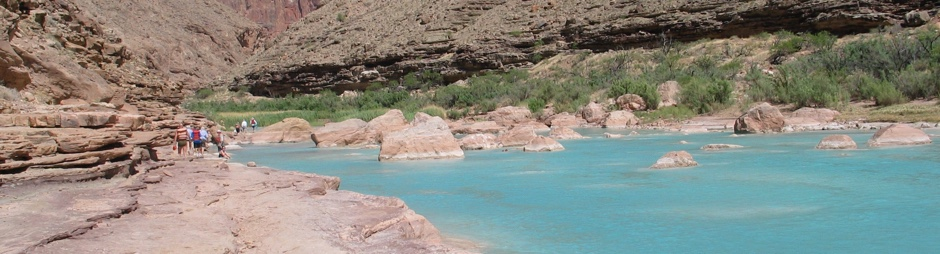
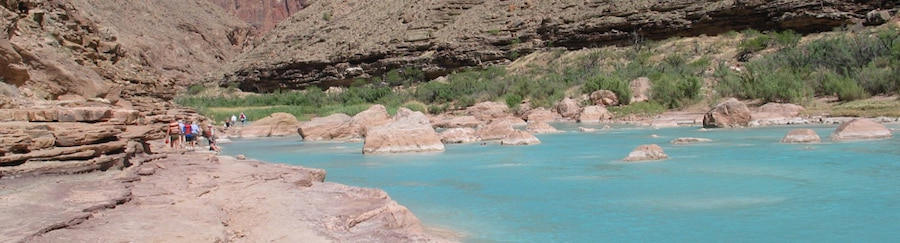
Image optimization and meta additions

Changed region(s): [[0.0622, 0.5761, 0.1244, 0.6049], [0.0933, 0.4897, 0.1244, 0.5185], [0.0311, 0.4897, 0.0622, 0.5185]]

diff --git a/wwr/about.html b/wwr/about.html
@@ -4,6 +4,8 @@
     <meta charset="UTF-8">
     <meta name="viewport" content="width=device-width, initial-scale=1.0">
     <title>About</title>
+    <meta name="description" content="Rapids White Water Rafting about page logo history adventure BYU-Idaho assignment">
+    <meta name="author" content="Madison Thomas">
     <link rel="preconnect" href="https://fonts.googleapis.com">
     <link rel="preconnect" href="https://fonts.gstatic.com" crossorigin>
     <link href="https://fonts.googleapis.com/css2?family=Afacad+Flux:wght@100..1000&family=Barlow+Semi+Condensed:ital,wght@0,100;0,200;0,300;0,400;0,500;0,600;0,700;0,800;0,900;1,100;1,200;1,300;1,400;1,500;1,600;1,700;1,800;1,900&display=swap" rel="stylesheet">
@@ -12,11 +14,13 @@
 <body>
     <header>
         <img src="images/rapids-logo.png" alt="Rapids Logo">
-        <a href="index.html">Home</a>
-        <a href="about.html">About Us</a>
-        <a href="trips.html">Trips</a>
-        <a href="contact.html">Contact Us</a>
-    </header>
+        <nav>
+            <a href="index.html">Home</a>
+            <a href="about.html">About Us</a>
+            <a href="trips.html">Trips</a>
+            <a href="contact.html">Contact Us</a>
+        </nav>
+   </header>
     <main>
         <div class="hero">
             <img src="images/hero.jpg" alt="Rapids Hero Img">
